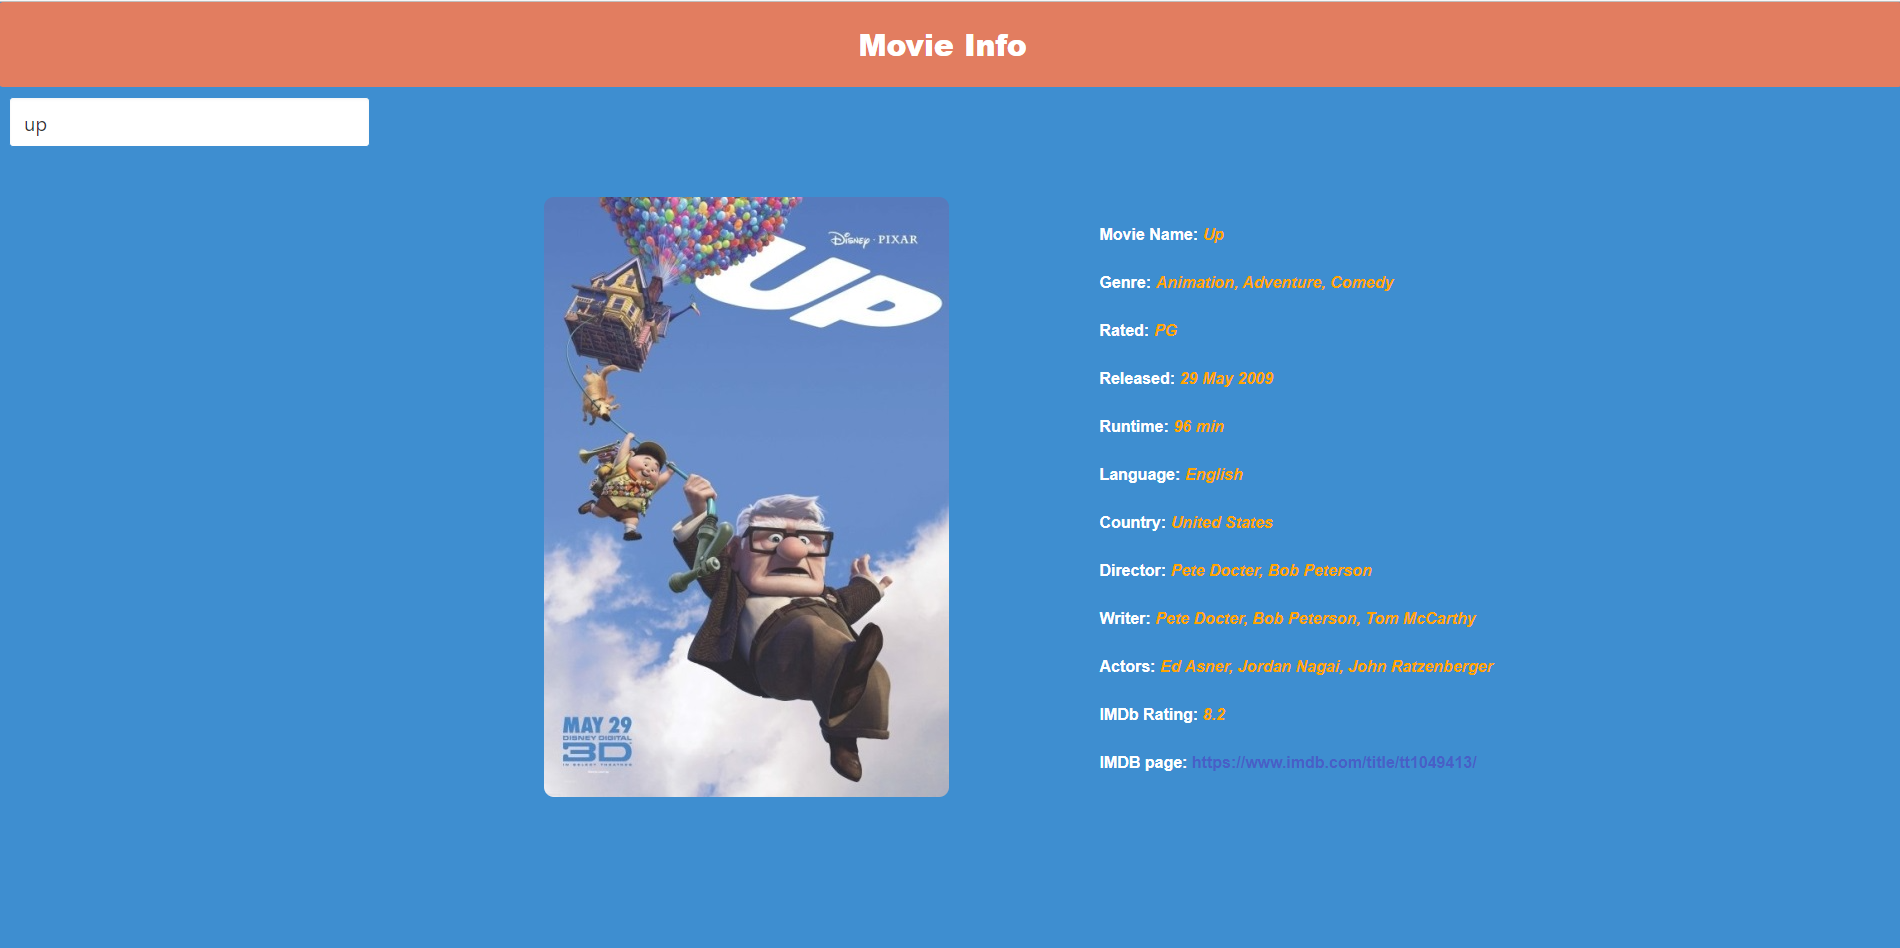
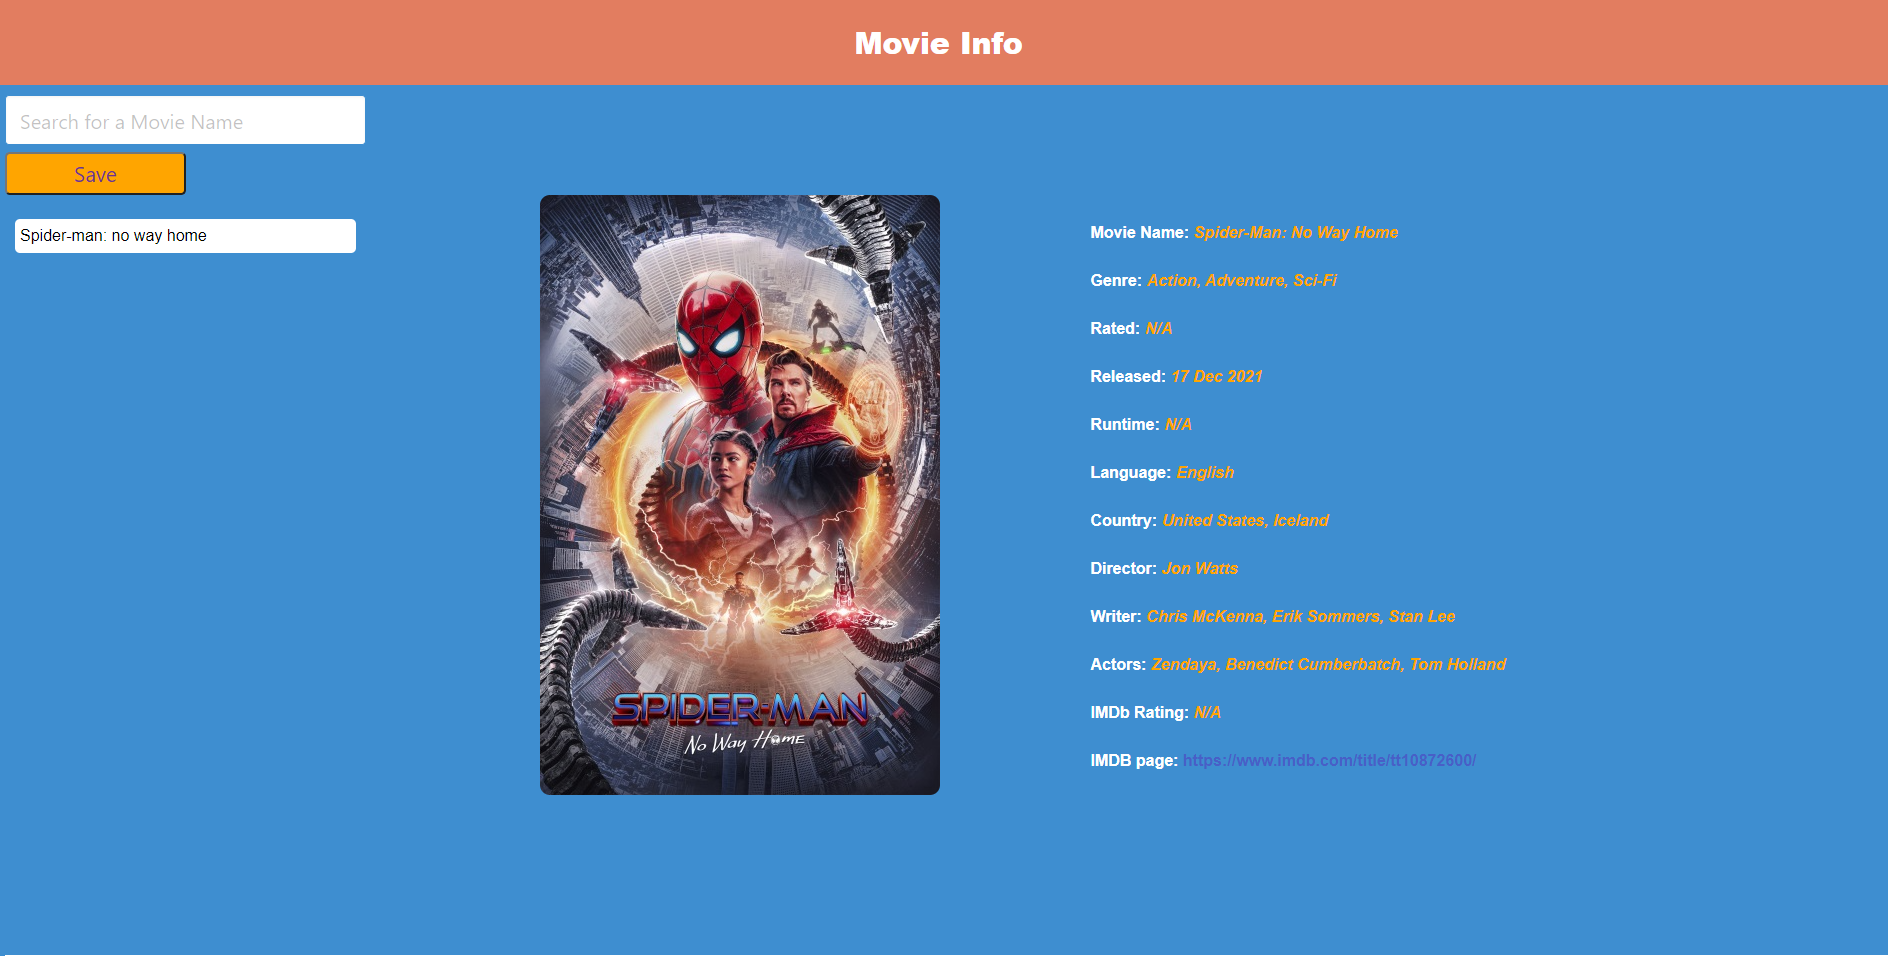
updated README.md

diff --git a/script.js b/script.js
@@ -4,13 +4,14 @@ var apiKey = '5e6b3c6c';
 // Created Variable to grab element with id=movie-info
 var movieInfoEl = document.querySelector('#movie-info');
 var qurybox = document.querySelector('#qurybox');
+// array to store the movies
 var movies = [];
 
 if (localStorage.getItem('movie-title')) {
   movies = JSON.parse(localStorage.getItem('movie-title'));
 }
 
-//Declared a variable to store the movie
+// Declared a variable to store the movie
 var data;
 
 function getMovieInfo(info) {
@@ -71,10 +72,15 @@ function getMovieInfo(info) {
   );
 }
 
-var save = function (input) {
+// add movies data to the movies array as an object
+var save = function () {
   var saveBtn = document.querySelector('.btn');
   if (saveBtn) {
     movies.push(qurybox.value);
+    localStorage.setItem('movie-title', JSON.stringify(movies));
+    addToList();
+  } else if (getMovieInfo(data) > 0) {
+    movies.push(data.toUpperCase());
     localStorage.setItem('movie-title', JSON.stringify(movies));
     addToList();
   }

diff --git a/style.css b/style.css
@@ -30,6 +30,29 @@ p {
 }
 /* Serch-bar Ends*/
 
+.btn {
+    background-color: orange;
+    font-size: 1.3rem;
+    padding: 6px 5px;
+    width: 50%;
+    display: block;
+    margin: 7px 0;
+    color: #6f308f;
+    border-radius: 5px;
+}
+
+.save-list-group {
+    background-color: white;
+    color: black;
+}
+
+li {
+    cursor: pointer;
+    padding: 5px 5px;
+    margin: 7px 0;
+    border-radius: 5px;
+}
+
 /* Movie-info Display Starts */
 #movie-info {
     display: -webkit-box;
@@ -43,6 +66,7 @@ p {
     margin-left: 150px;
     margin-right: 150px;
 }
+
 /* Movie-info Display Ends */
  
 .save-list {

diff --git a/README.md b/README.md
@@ -1,2 +1,34 @@
 # project_1
-Group Project 1
+
+Being a movie fan, and always watching movies with good IMDb ratings and good content, decided to make a webpage where the user can search movies by name and display all movies information. Also, to promote good movies and refer to family and friends.
+
+## Application Screenshot and Deployed Application
+
+![application scrrenshot](./img/image.png)
+
+### [Deployed Application](https://shatteredchungus.github.io/project_1/)
+
+## Description
+
+Move-Info is app that search all movies by name including international movies and TV shows.
+
+## User Story
+
+```
+As AN User I WANT to
+search movies by name
+SO THAT I can see movie information.
+```
+
+## Built With
+
+- VS Code
+- HTML
+- CSS
+- Bulma CSS Framework
+- JQuery
+- JavaScript
+
+## Contribution
+
+Made with ❤ by Group-3 (John Mansaray, Matthew Brining, Niraj Limbu, William Ingram)
